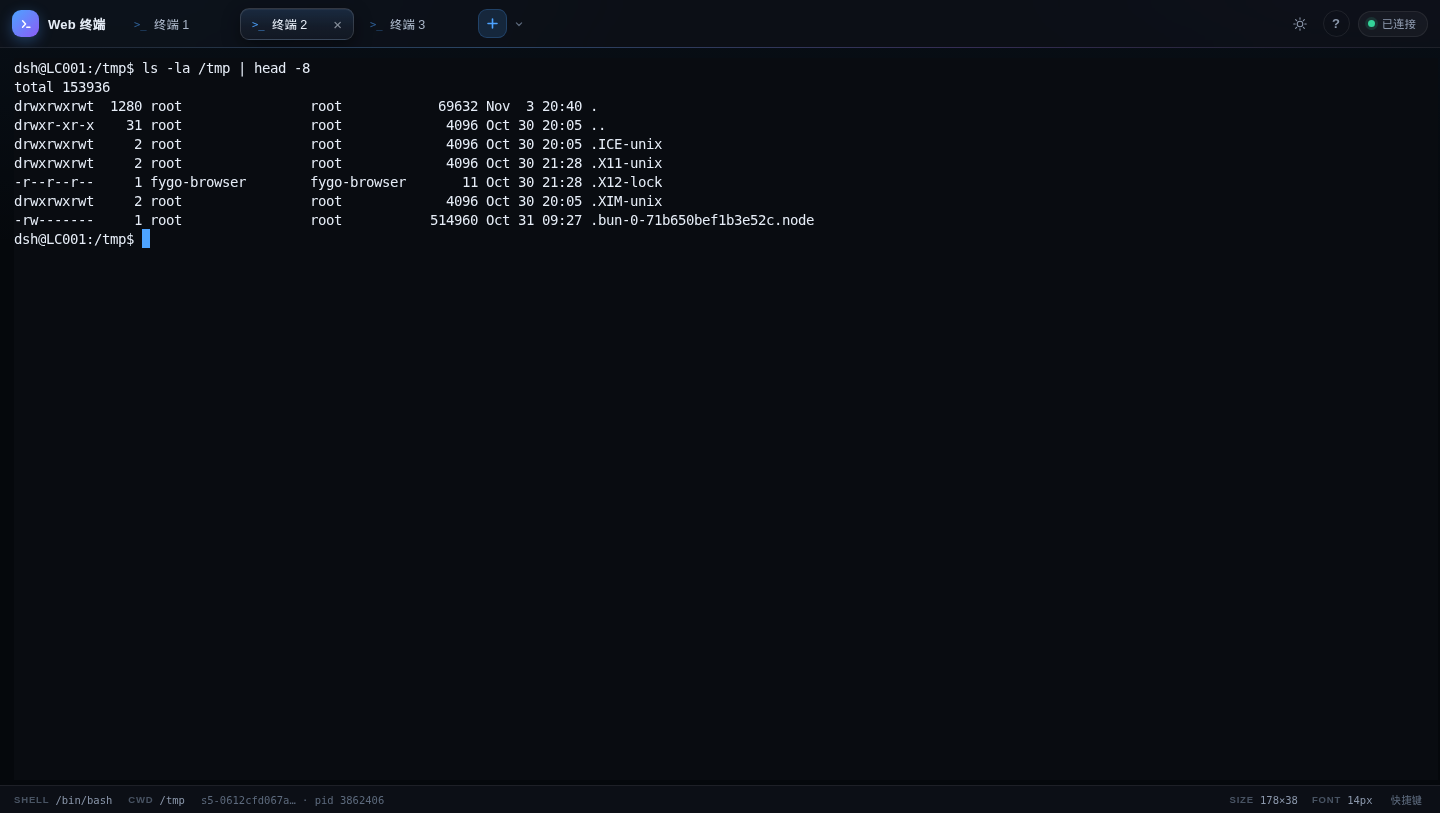
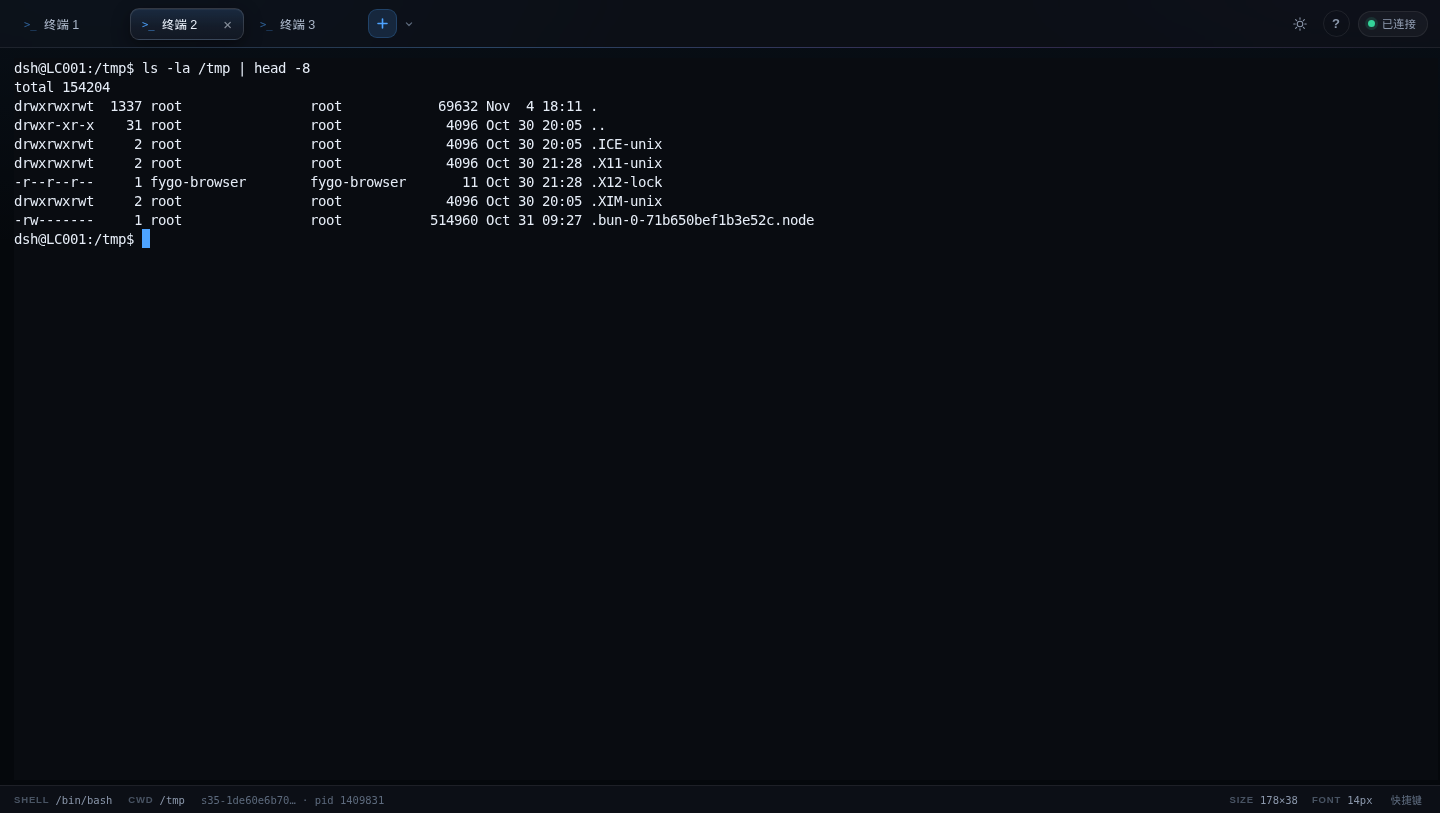
fix(ui): 去掉顶栏品牌图标，并修正若干界面逻辑问题
- 顶栏左侧不再显示品牌图标与「Web 终端」文字，直接从标签页开始
- 修复会话上限提示写进未激活标签页导致看不见的问题（改为激活后再写）
- 重启会话后状态栏不再残留上一个进程的 pid
- 调字号后新建/尚未挂载的标签页也沿用新字号
- 恢复已有会话时标签页悬浮提示显示的是正确标题

diff --git a/web/src/app.ts b/web/src/app.ts
@@ -109,16 +109,18 @@ export class App {
     if (this.tabs.length === 0) {
       this.createTab(this.defaultCommand());
     }
+    const wanted = this.tabFromHash();
+    const idx = wanted >= 0 ? wanted : 0;
+    this.activate(Math.min(idx, this.tabs.length - 1));
+
+    // 提示要等标签页激活之后再写：
+    // 上面 activate() 之前 activeIndex 还是 -1，写过去等于写进了虚空。
     if (skipped > 0) {
       this.writeSystem(
         this.activeIndex,
         `\r\n\x1b[33m有 ${skipped} 个标签页因会话数已达上限（${this.maxSessions} 个）未能恢复。\x1b[0m\r\n`,
       );
     }
-
-    const wanted = this.tabFromHash();
-    const idx = wanted >= 0 ? wanted : 0;
-    this.activate(Math.min(idx, this.tabs.length - 1));
     window.setTimeout(() => this.tabs[this.activeIndex]?.session.focus(), 60);
   }
 
@@ -184,7 +186,9 @@ export class App {
     const el = document.createElement('div');
     el.className = 'tab';
     const defaultLabel = cmd ?? `终端 ${id}`;
-    el.title = defaultLabel;
+    // 标签页标题：恢复已有会话时用服务端保存的标题，新建时用命令或「终端 N」
+    const label = title ?? defaultLabel;
+    el.title = label;
 
     const iconEl = document.createElement('span');
     iconEl.className = 'tab-icon';
@@ -193,7 +197,7 @@ export class App {
 
     const titleEl = document.createElement('span');
     titleEl.className = 'title';
-    titleEl.textContent = title ?? defaultLabel;
+    titleEl.textContent = label;
 
     const dotEl = document.createElement('span');
     dotEl.className = 'dot';
@@ -332,11 +336,16 @@ export class App {
     const tab = this.tabs[index];
     if (!tab) return;
     tab.dotEl.classList.remove('on');
+    // 旧会话已经没了，pid 也要清掉：否则状态栏会一直显示上一个进程的 pid，
+    // 新会话就绪后（onReady）再写回真实的 pid。
+    tab.pid = null;
+    this.updateStatusBar();
     void tab.session.restart();
     this.activate(index);
   }
 
-  private setTitle(id: number, title: string): void {    const tab = this.tabs.find((t) => t.id === id);
+  private setTitle(id: number, title: string): void {
+    const tab = this.tabs.find((t) => t.id === id);
     if (!tab) return;
     tab.title = title;
     tab.titleEl.textContent = title;

diff --git a/web/src/terminal.ts b/web/src/terminal.ts
@@ -130,12 +130,15 @@ export class TerminalSession {
   private state: ConnState = 'offline';
   private lastCols = 0;
   private lastRows = 0;
+  /** 当前字号（终端未挂载时也保留，mount 时使用） */
+  private fontSizeValue: number;
   private exited = false;
 
   constructor(opts: TerminalSessionOpts) {
     this.opts = opts;
     this.sid = opts.sid ?? null;
     this.cmd = opts.cmd ?? null;
+    this.fontSizeValue = opts.fontSize ?? 14;
   }
 
   get connState(): ConnState {
@@ -169,7 +172,7 @@ export class TerminalSession {
       cursorStyle: 'block',
       cursorInactiveStyle: 'outline',
       fontFamily: FONT_STACK,
-      fontSize: this.opts.fontSize ?? 14,
+      fontSize: this.fontSizeValue,
       lineHeight: 1.2,
       letterSpacing: 0,
       scrollback: 8000,
@@ -244,6 +247,9 @@ export class TerminalSession {
   }
 
   setFontSize(size: number): void {
+    // 记住字号，即使终端还没挂载。
+    // 否则「先调字号、后打开标签页」的那个标签页会退回创建时的旧字号。
+    this.fontSizeValue = size;
     if (!this.term) return;
     this.term.options.fontSize = size;
     this.refreshSize();

diff --git a/web/src/style.css b/web/src/style.css
@@ -165,33 +165,6 @@ html[data-theme="light"] .chrome::after {
   opacity: 0.35;
 }
 
-.brand {
-  display: flex;
-  align-items: center;
-  gap: 9px;
-  flex: 0 0 auto;
-  padding-right: 4px;
-}
-
-.brand-mark {
-  display: grid;
-  place-items: center;
-  width: 27px;
-  height: 27px;
-  border-radius: 9px;
-  background: linear-gradient(135deg, var(--accent), var(--accent-2));
-  color: #fff;
-  box-shadow: 0 4px 14px rgba(77, 163, 255, 0.32);
-}
-
-.brand-name {
-  font-size: 13px;
-  font-weight: 600;
-  letter-spacing: 0.2px;
-  color: var(--fg);
-  white-space: nowrap;
-}
-
 /* ---- 标签页 ---- */
 
 .tabs-shell {
@@ -894,12 +867,6 @@ kbd {
 /* ==========================================================================
    响应式
    ========================================================================== */
-
-@media (max-width: 900px) {
-  .brand-name {
-    display: none;
-  }
-}
 
 @media (max-width: 760px) {
   .status-mid,

diff --git a/web/index.html b/web/index.html
@@ -21,17 +21,6 @@
   <body>
     <div id="app">
       <header class="chrome">
-        <div class="brand" aria-hidden="true">
-          <span class="brand-mark" aria-hidden="true">
-            <svg viewBox="0 0 16 16" width="14" height="14">
-              <path d="M4.1 4.4 7.5 8l-3.4 3.6" fill="none" stroke="currentColor" stroke-width="1.7"
-                stroke-linecap="round" stroke-linejoin="round" />
-              <path d="M8.9 11.7h3.6" fill="none" stroke="currentColor" stroke-width="1.7" stroke-linecap="round" />
-            </svg>
-          </span>
-          <span class="brand-name">Web 终端</span>
-        </div>
-
         <div class="tabs-shell">
           <div id="tabstrip" class="tabstrip" role="tablist" aria-label="终端标签页"></div>
           <div class="tabbar-actions">
